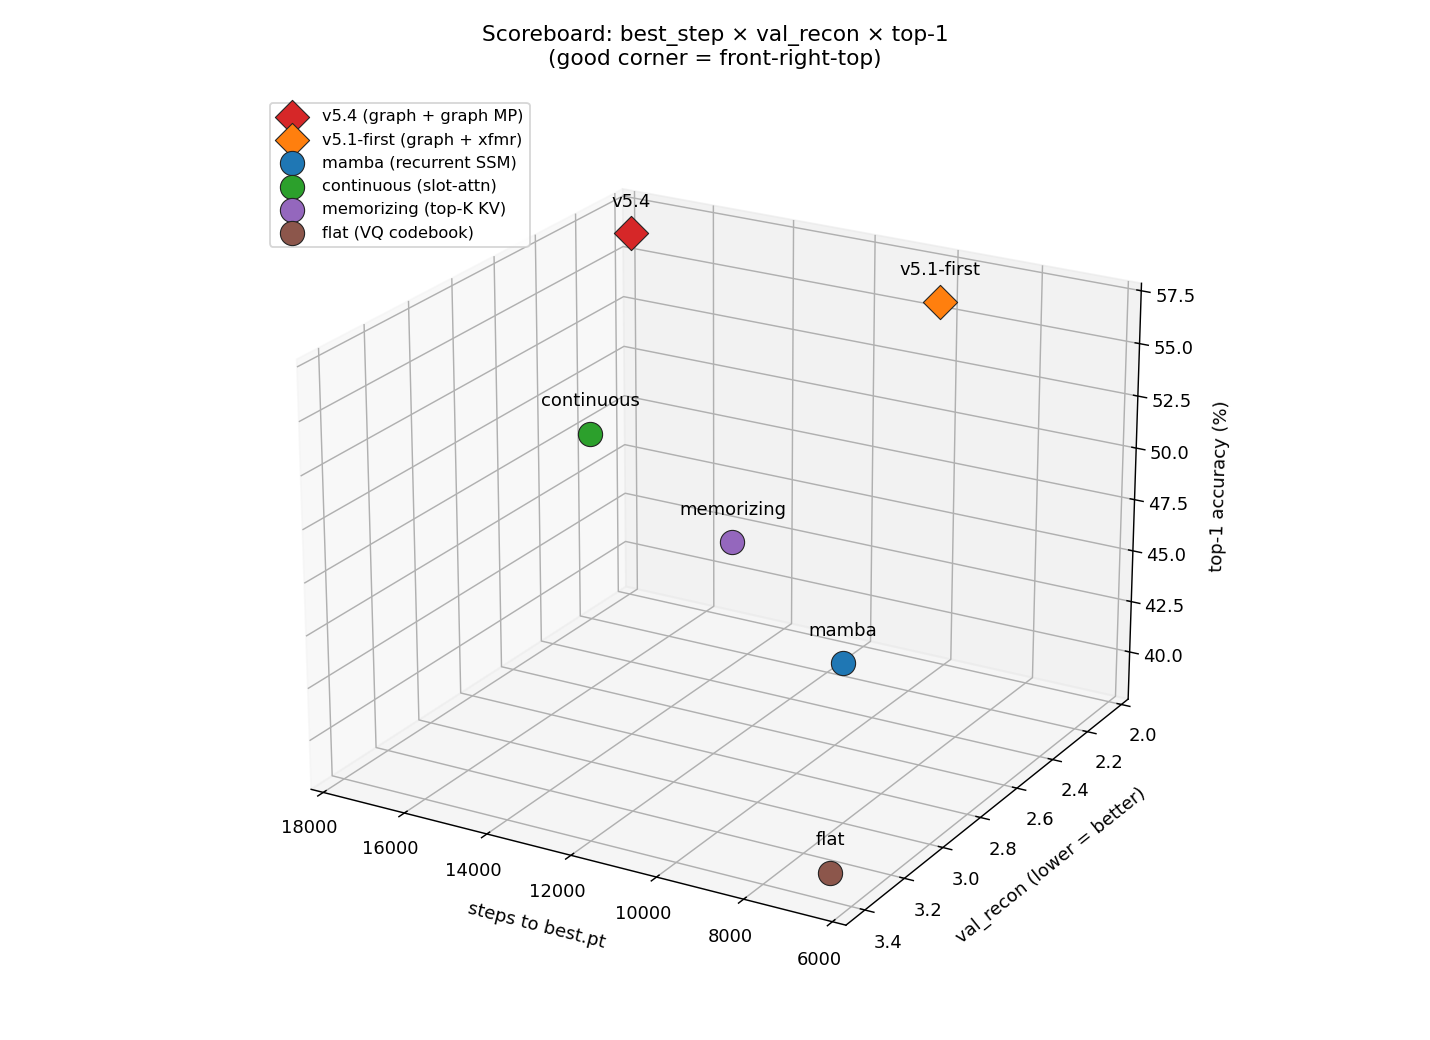
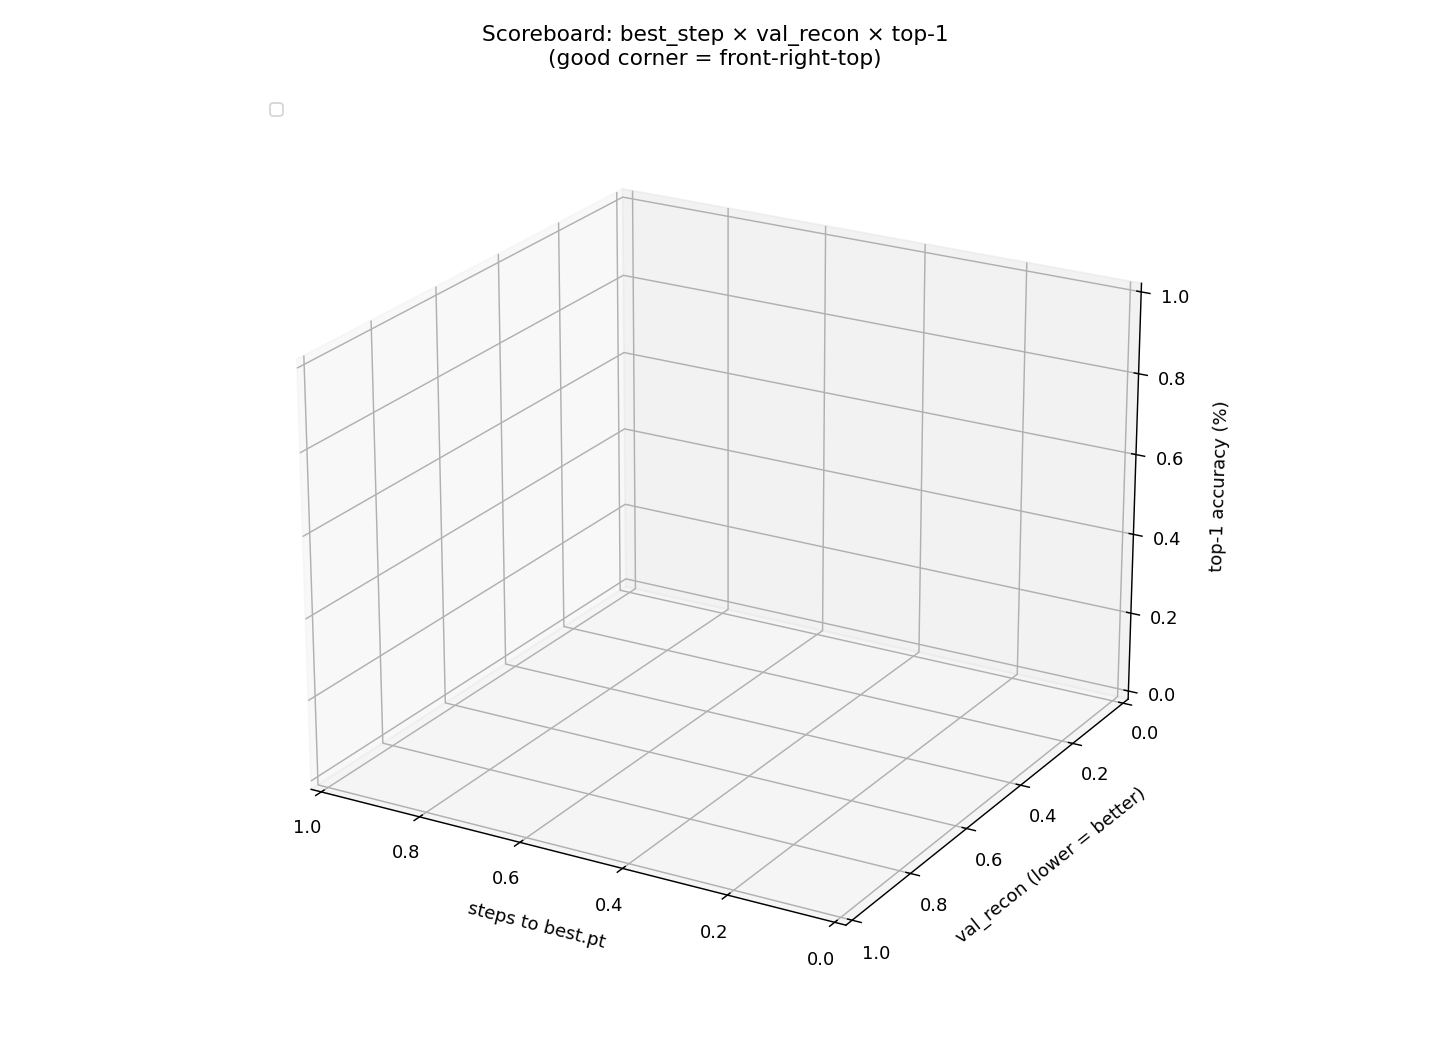
perf: FlashAttention encoder + activation checkpointing → BS=8 / chunk=8192 fits
Make the full 7-variant sweep fit and run fast at BS=8/chunk=8192 on a 24 GB GPU,
without handicapping any model. Mixed precision audited and unchanged (standard
AMP: bf16 frozen Llama + SDPA, fp32 master weights / LoRA / norms / softmax / CE /
optimizer, no GradScaler).

Root cause of the OOMs: the windowed encoders (flat/continuous/MT) retained all 8
windows' bidirectional-attention activations for one backward, and the padding mask
forced the math SDPA backend (materialized + saved O(T²) scores).

Fixes:
- FlashAttention encoder (encoder.py SmallBiTransformer): drop the key-padding mask
  on fully-packed windows (~7/8) so SDPA picks the flash/mem-efficient kernel — O(T)
  memory, never materializes/saves the T×T scores. Verified BIT-EXACT vs the math
  backend (max|Δ|=0). Padded tail window keeps its mask (one window's O(T²) is cheap).
- Per-window activation checkpointing in compute_qa_loss (model.py) behind
  cfg.grad_checkpoint_stream (default on) — exact gradients, ~per-window peak.
- peak-VRAM logging per variant in the trainer.

Result at BS=8/chunk=8192 (flash + checkpoint): flat/cont/MT ~2.2 step/s @ 7.6 GB
(was OOM, then 1.2 step/s with math+ckpt), graph_v6 ~2.6 step/s @ 6.6 GB. Bench
showed training is COMPUTE-bound at BS=8 (BS=16 gives no throughput gain and mamba
OOMs at 16) → BS=8 is optimal. Activation-recomputation overhead measured ~24%,
consistent with Korthikanti et al. 2022 (~29% for full recompute).
[…]

diff --git a/src/repr_learning/model.py b/src/repr_learning/model.py
@@ -10,6 +10,7 @@ from typing import Optional
 import torch
 import torch.nn as nn
 import torch.nn.functional as F
+import torch.utils.checkpoint
 from torch import Tensor
 
 from .chat_template import ChatTemplate, build_chat_template
@@ -78,6 +79,15 @@ class ReprLearningModel(nn.Module):
 
         self.encoder = self.VARIANTS[variant](cfg)
         self.decoder = FrozenLlamaDecoder(cfg, llama_model=llama_model)
+        # Optional HF per-layer gradient checkpointing on the Llama base model
+        # (recompute in backward, use_reentrant=False; HF gates on self.training so
+        # eval is unaffected). Flag-controlled, off by default. vanilla_full_context
+        # is NOT trained — it re-forwards the full ~8192-token context per question
+        # (~40x the decoder tokens of the memory arms), so backward OOMs; it runs
+        # frozen/eval-only instead (a frozen full-context Llama is a valid ceiling).
+        if getattr(cfg, "grad_checkpoint_llama", False):
+            self.decoder.llama.model.gradient_checkpointing_enable(
+                gradient_checkpointing_kwargs={"use_reentrant": False})
 
         # Chat template: caller can pass a pre-built one to avoid reloading
         # the tokenizer per model instance. Otherwise build it here. When
@@ -370,13 +380,26 @@ class ReprLearningModel(nn.Module):
             chunk_embeds = embed(batch.input_ids)
         n_windows = (T + window_size - 1) // window_size
         state = self.encoder.init_streaming_state(B, device, chunk_embeds.dtype)
+        # Activation-checkpoint each window during training so we hold ~one
+        # window of encoder activations instead of all n_windows at once (the
+        # chunk=8192 OOM for the windowed encoders). Exact gradients; recompute
+        # in backward. Skipped under no_grad (eval) — nothing to save for backward.
+        ckpt_stream = (getattr(self.cfg, "grad_checkpoint_stream", True)
+                       and self.training and torch.is_grad_enabled())
         for w in range(n_windows):
             s = w * window_size
             e = min(s + window_size, T)
-            state, _ = self.encoder.streaming_write(
-                state, chunk_embeds[:, s:e, :], batch.attention_mask[:, s:e],
-                chunk_offset=s,
-            )
+            win_emb = chunk_embeds[:, s:e, :]
+            win_mask = batch.attention_mask[:, s:e]
+            if ckpt_stream:
+                def _write(st, em, mk, off=s):
+                    new_st, _ = self.encoder.streaming_write(st, em, mk, chunk_offset=off)
+                    return new_st
+                state = torch.utils.checkpoint.checkpoint(
+                    _write, state, win_emb, win_mask, use_reentrant=False)
+            else:
+                state, _ = self.encoder.streaming_write(
+                    state, win_emb, win_mask, chunk_offset=s)
         memory, finalize_aux = self.encoder.finalize_memory(state)
         # memory: [B, M, d_llama] — placeholder [B, 0, d_llama] for MT and Vanilla.
 
@@ -595,16 +618,30 @@ class ReprLearningModel(nn.Module):
                 ctx_surprise = None
         n_windows = (T_ctx + window_size - 1) // window_size
         state = self.encoder.init_streaming_state(B, device, ctx_embeds.dtype)
+        # Activation-checkpoint each window during training so we hold ~one
+        # window of encoder activations instead of all n_windows at once (the
+        # chunk=8192 OOM for the windowed encoders flat/continuous/MT). Exact
+        # gradients; recompute in backward. Skipped under no_grad (eval) and when
+        # per-window `extra` (plastic surprise) is present.
+        ckpt_stream = (getattr(self.cfg, "grad_checkpoint_stream", True)
+                       and self.training and torch.is_grad_enabled())
         for w in range(n_windows):
             s = w * window_size
             e = min(s + window_size, T_ctx)
             extra = {}
             if ctx_surprise is not None:
                 extra["surprise"] = ctx_surprise[:, s:e]
-            state, _ = self.encoder.streaming_write(
-                state, ctx_embeds[:, s:e, :], batch.context_mask[:, s:e],
-                chunk_offset=s, **extra,
-            )
+            win_emb = ctx_embeds[:, s:e, :]
+            win_mask = batch.context_mask[:, s:e]
+            if ckpt_stream and not extra:
+                def _write(st, em, mk, off=s):
+                    new_st, _ = self.encoder.streaming_write(st, em, mk, chunk_offset=off)
+                    return new_st
+                state = torch.utils.checkpoint.checkpoint(
+                    _write, state, win_emb, win_mask, use_reentrant=False)
+            else:
+                state, _ = self.encoder.streaming_write(
+                    state, win_emb, win_mask, chunk_offset=s, **extra)
         # v5.6: hand the question to the encoder (graph_v5 reads it for the
         # question-conditioned readout; dict-state variants ignore the keys).
         # NullEncoder (Tensor state) and Mamba (list state) are non-dict — guard.

diff --git a/src/repr_learning/encoder.py b/src/repr_learning/encoder.py
@@ -201,18 +201,28 @@ class SmallBiTransformer(nn.Module):
         if attention_mask is not None:
             # nn.TransformerEncoder expects True = mask (don't attend)
             src_key_padding_mask = ~attention_mask         # True where padded
-            # Defensive: when a sample's window is 100% padding (can happen
-            # for shorter inputs like HotpotQA contexts that don't fill the
-            # 4096-token budget across all four 1024-token windows), the
-            # all-True padding mask makes softmax over all-masked keys
-            # produce NaN. Unmask position 0 in any such row — that row's
-            # output is meaningless anyway (no valid tokens in this window),
-            # but it stays finite and the downstream slot state isn't
-            # contaminated for the OTHER rows in the batch.
-            all_padded_rows = src_key_padding_mask.all(dim=-1)  # [B]
-            if all_padded_rows.any():
-                src_key_padding_mask = src_key_padding_mask.clone()
-                src_key_padding_mask[all_padded_rows, 0] = False
+            if not src_key_padding_mask.any():
+                # No padding anywhere in this window → drop the mask entirely so
+                # SDPA can pick the FlashAttention kernel (O(T) memory; never
+                # materializes or saves the T×T scores for backward). Masking
+                # nothing is a mathematical no-op, so this is EXACT — not an
+                # approximation. ~7 of 8 packed 1024-windows hit this path, which
+                # is what lets the encoders fit at chunk=8192/BS=8 without (much)
+                # activation checkpointing. The partially-filled tail window keeps
+                # its mask (math backend, but one window's O(T²) is cheap).
+                src_key_padding_mask = None
+            else:
+                # Defensive: when a sample's window is 100% padding (can happen
+                # for shorter inputs like HotpotQA contexts that don't fill the
+                # token budget across all 1024-token windows), the all-True
+                # padding mask makes softmax over all-masked keys produce NaN.
+                # Unmask position 0 in any such row — that row's output is
+                # meaningless anyway (no valid tokens), but it stays finite and
+                # the downstream slot state isn't contaminated for OTHER rows.
+                all_padded_rows = src_key_padding_mask.all(dim=-1)  # [B]
+                if all_padded_rows.any():
+                    src_key_padding_mask = src_key_padding_mask.clone()
+                    src_key_padding_mask[all_padded_rows, 0] = False
         else:
             src_key_padding_mask = None
         out = self.transformer(h, src_key_padding_mask=src_key_padding_mask)

diff --git a/scripts/repr_learning/train_repr_qa.py b/scripts/repr_learning/train_repr_qa.py
@@ -253,7 +253,12 @@ def train_one_variant(
     # A variant is eval-only iff it has no trainable params. With LoRA-all on, the
     # two vanilla references DO train (their ~1.7M LoRA) — they become the LoRA'd
     # floor (no context) and ceiling (full context), not frozen reference points.
-    is_eval_only = (n_trainable == 0)
+    # vanilla_full_context is kept FROZEN/eval-only (the ceiling): it re-forwards
+    # the full ~8192-token context per question (~40x the decoder tokens of the
+    # memory arms), so LoRA-training it OOMs under backward — and a frozen
+    # full-context Llama is already a valid upper bound. Its zero-init LoRA, if
+    # built, is an identity no-op. vanilla_llama (the floor) still LoRA-trains.
+    is_eval_only = (n_trainable == 0) or variant == "vanilla_full_context"
     print(f"\n{'='*78}")
     print(f"Variant: {variant}  ({n_trainable:,} trainable, {n_steps} steps)")
     print(f"{'='*78}")
@@ -392,6 +397,8 @@ def train_one_variant(
 
     t_start = time.time()
     last_print_step, last_print_time = start_step, t_start
+    if torch.cuda.is_available():
+        torch.cuda.reset_peak_memory_stats()   # per-variant peak-VRAM tracking
 
     # Resume: use a local step counter rather than skipping batches from the
     # iterator. The dataloader is seeded but stochastic per worker; replaying
@@ -675,16 +682,20 @@ def train_one_variant(
     jsonl_fp.close()
 
     elapsed = time.time() - t_start
+    peak_vram_gb = (torch.cuda.max_memory_allocated() / 1e9
+                    if torch.cuda.is_available() else 0.0)
     src = f"best.pt @ {best_val_step}" if best_ckpt_path.exists() else f"last weights"
     print(f"  DONE: {step} steps in {elapsed/60:.1f} min  "
           f"final val_recon={final_val['val_loss_recon']:.4f} "
-          f"top1={final_val['val_top1_acc']*100:.1f}% ({src})", flush=True)
+          f"top1={final_val['val_top1_acc']*100:.1f}% ({src})  "
+          f"peak_vram={peak_vram_gb:.1f}GB", flush=True)
 
     summary = {
         "variant": variant,
         "trainable_params": n_trainable,
         "n_steps": step,
         "elapsed_s": elapsed,
+        "peak_vram_gb": peak_vram_gb,
         "final_val_loss_recon": final_val["val_loss_recon"],
         "final_val_top1_acc": final_val["val_top1_acc"],
         "final_val_per_family": final_val["val_per_family"],
@@ -709,7 +720,7 @@ def main():
     # plastic_baseline, splat_baseline) removed from defaults; they are still
     # selectable via explicit --variants if needed.
     ap.add_argument("--variants", nargs="+", default=[
-        "graph_v5_baseline",      # primary architecture
+        "graph_v6_baseline",      # primary architecture (soft-pointer + FiLM read)
         "flat_baseline",
         "continuous_baseline",
         "memorizing_baseline",
@@ -717,8 +728,8 @@ def main():
         "vanilla_llama",          # loss floor (no context)
         "vanilla_full_context",   # frozen-LM reference (sees raw context)
     ])
-    ap.add_argument("--steps", type=int, default=10_000)
-    ap.add_argument("--batch-size", type=int, default=2)
+    ap.add_argument("--steps", type=int, default=8_000)
+    ap.add_argument("--batch-size", type=int, default=8)
     ap.add_argument("--lr", type=float, default=None,
                     help="Override cfg.learning_rate (default 1e-4). Scale with "
                          "BS — e.g. sqrt rule: 1e-4×sqrt(BS/2) → BS=16 ≈ 2.5e-4.")
@@ -746,6 +757,11 @@ def main():
     ap.add_argument("--mt-diversity-scale", type=float, default=0.0)
     ap.add_argument("--out-tag", type=str, default="v1h")
     ap.add_argument("--resume", action="store_true")
+    # Per-window activation checkpointing on the encoder streaming write. With the
+    # FlashAttention encoder path (packed windows drop the mask) most variants fit
+    # without it, so default ON is a safety net you can disable for full speed.
+    ap.add_argument("--grad-ckpt-stream", action=argparse.BooleanOptionalAction,
+                    default=True)
     ap.add_argument("--no-hotpot", action="store_true",
                     help="Disable HotpotQA source (default: enabled)")
     # 2026-05-28: hard-only protocol enables narrative + musique by default;
@@ -919,6 +935,7 @@ def main():
         # budget is identical across arms; only the memory mechanism differs.
         # vanilla_llama+LoRA = floor, vanilla_full_context+LoRA = ceiling.
         use_llama_lora=True,
+        grad_checkpoint_stream=args.grad_ckpt_stream,
         b_diversity_scale=args.b_diversity_scale,
         mt_diversity_scale=args.mt_diversity_scale,
         **({"learning_rate": args.lr} if args.lr is not None else {}),

diff --git a/src/repr_learning/config.py b/src/repr_learning/config.py
@@ -170,6 +170,17 @@ class ReprConfig:
     # Names of Linear submodules to wrap. Default targets attention Q+V.
     llama_lora_target_names: tuple = ("q_proj", "v_proj")
 
+    # ── Activation efficiency ───────────────────────────────────────────────
+    # Activation-checkpoint each streaming-write window so we don't retain all
+    # n_windows of encoder activations for one backward. This is what makes the
+    # windowed encoders (flat/continuous/MT) fit at chunk=8192/BS=8 — without it
+    # 8 windows of per-window activations are held at once and OOM. Exact
+    # gradients; trades recompute for ~per-window activation peak.
+    grad_checkpoint_stream: bool = True
+    # Gradient-checkpoint the Llama decoder forward (needed for the full-context
+    # arm, which forwards the whole 8192-token context through Llama with grad).
+    grad_checkpoint_llama: bool = False
+
     # ── Q-Former adapter (V2.1 only, optional) ─────────────────────────────
     # BLIP-2-style cross-attention adapter inserted between the V21 encoder's
     # projected memory tokens and Llama's input. Learned "Llama-side" queries